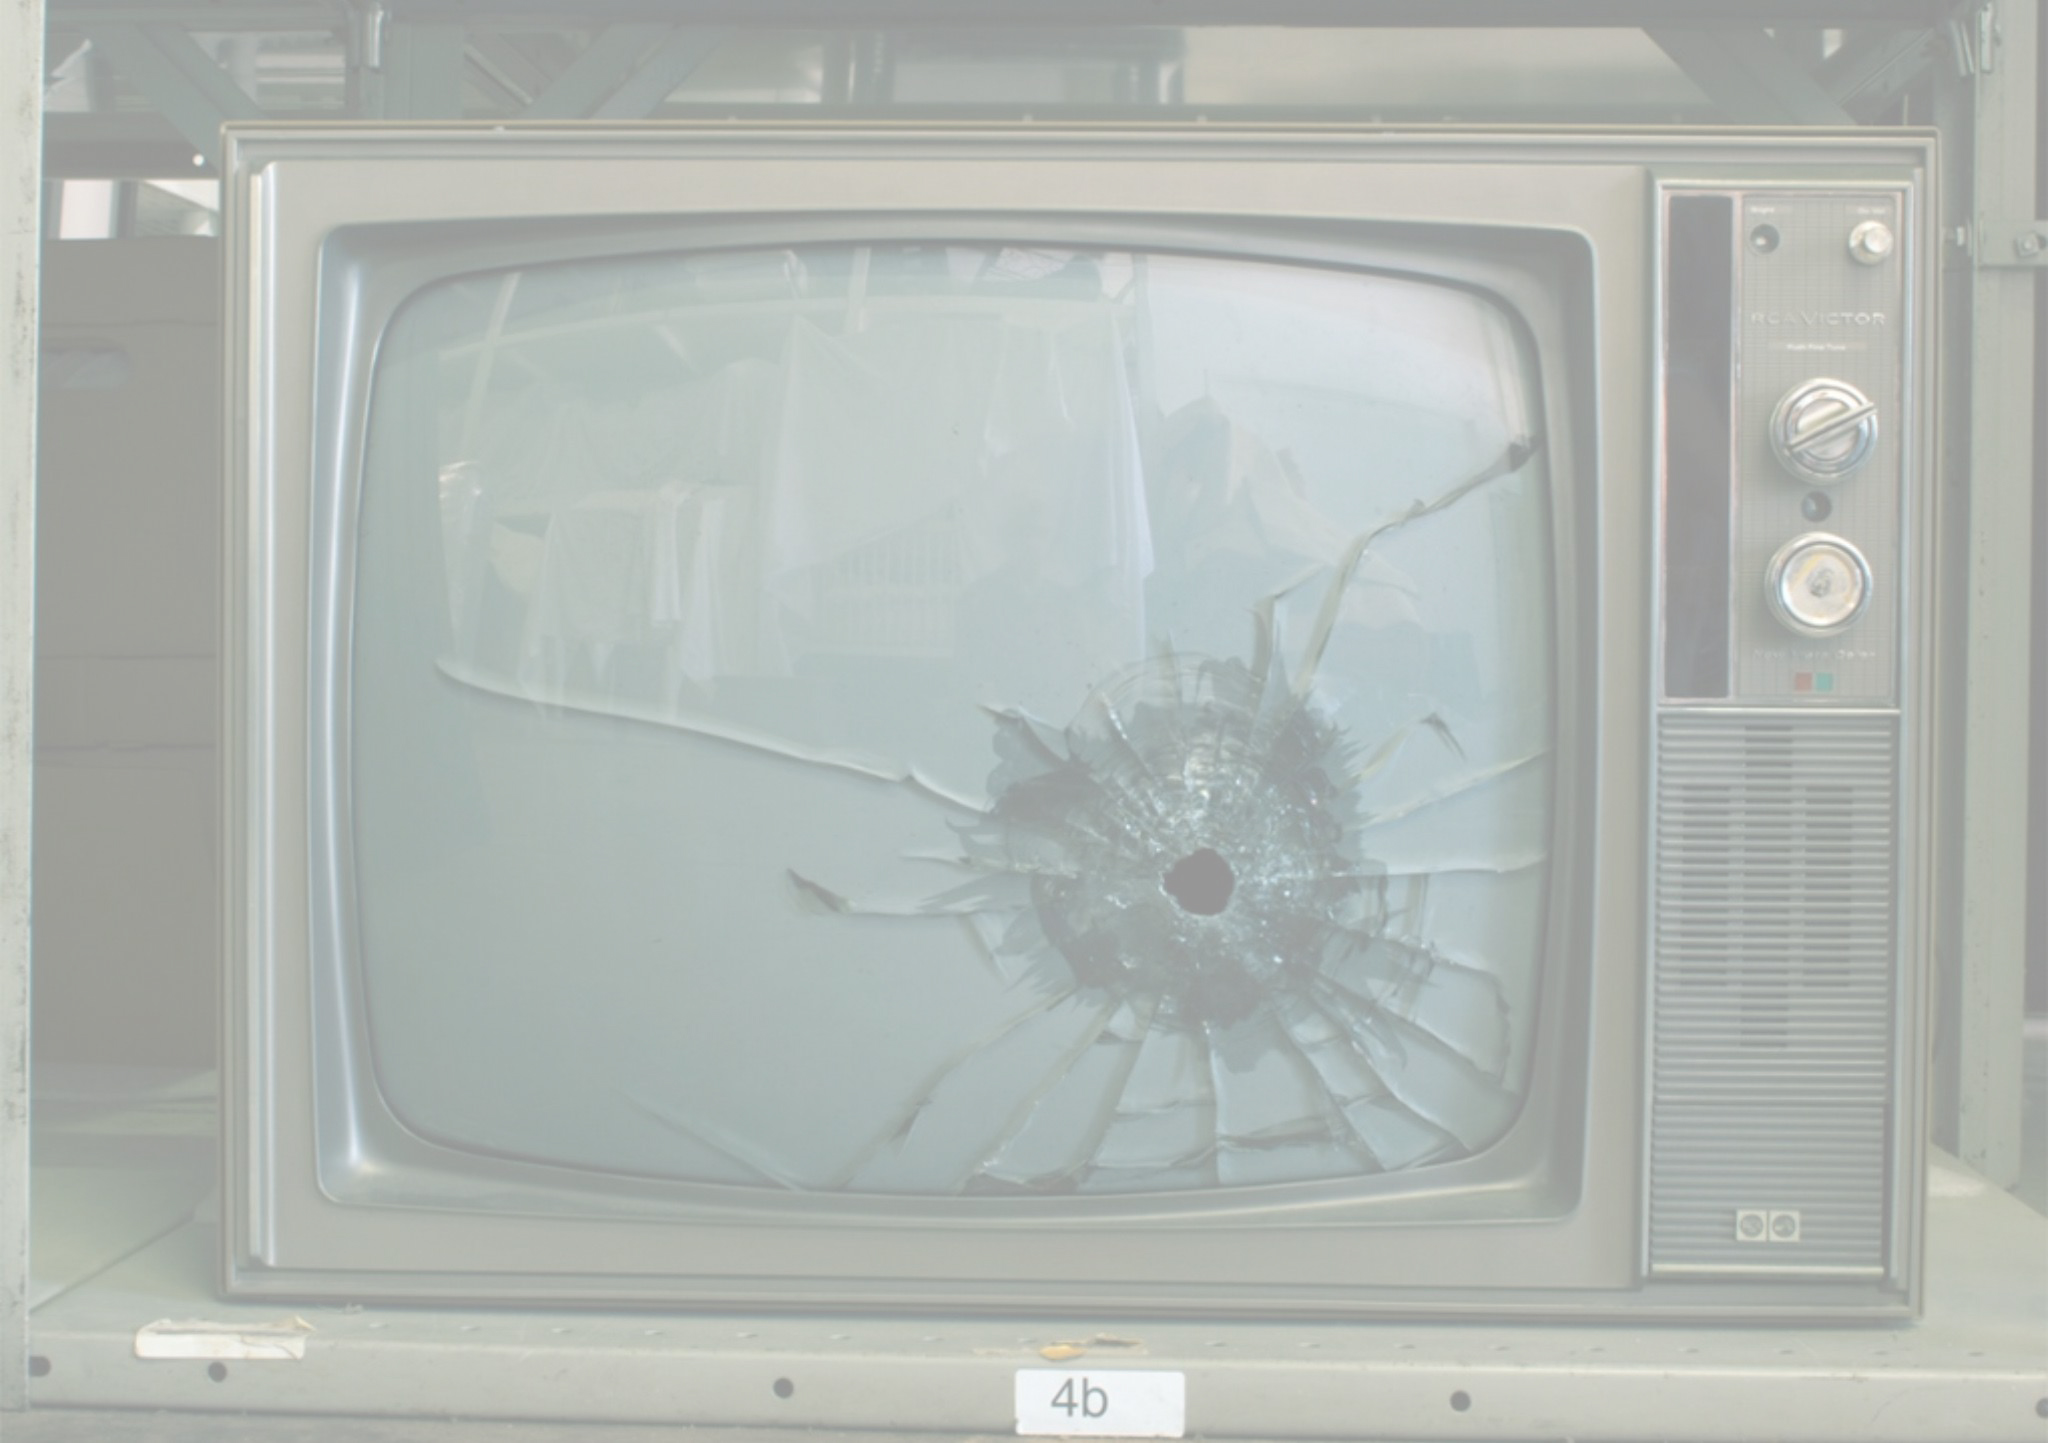
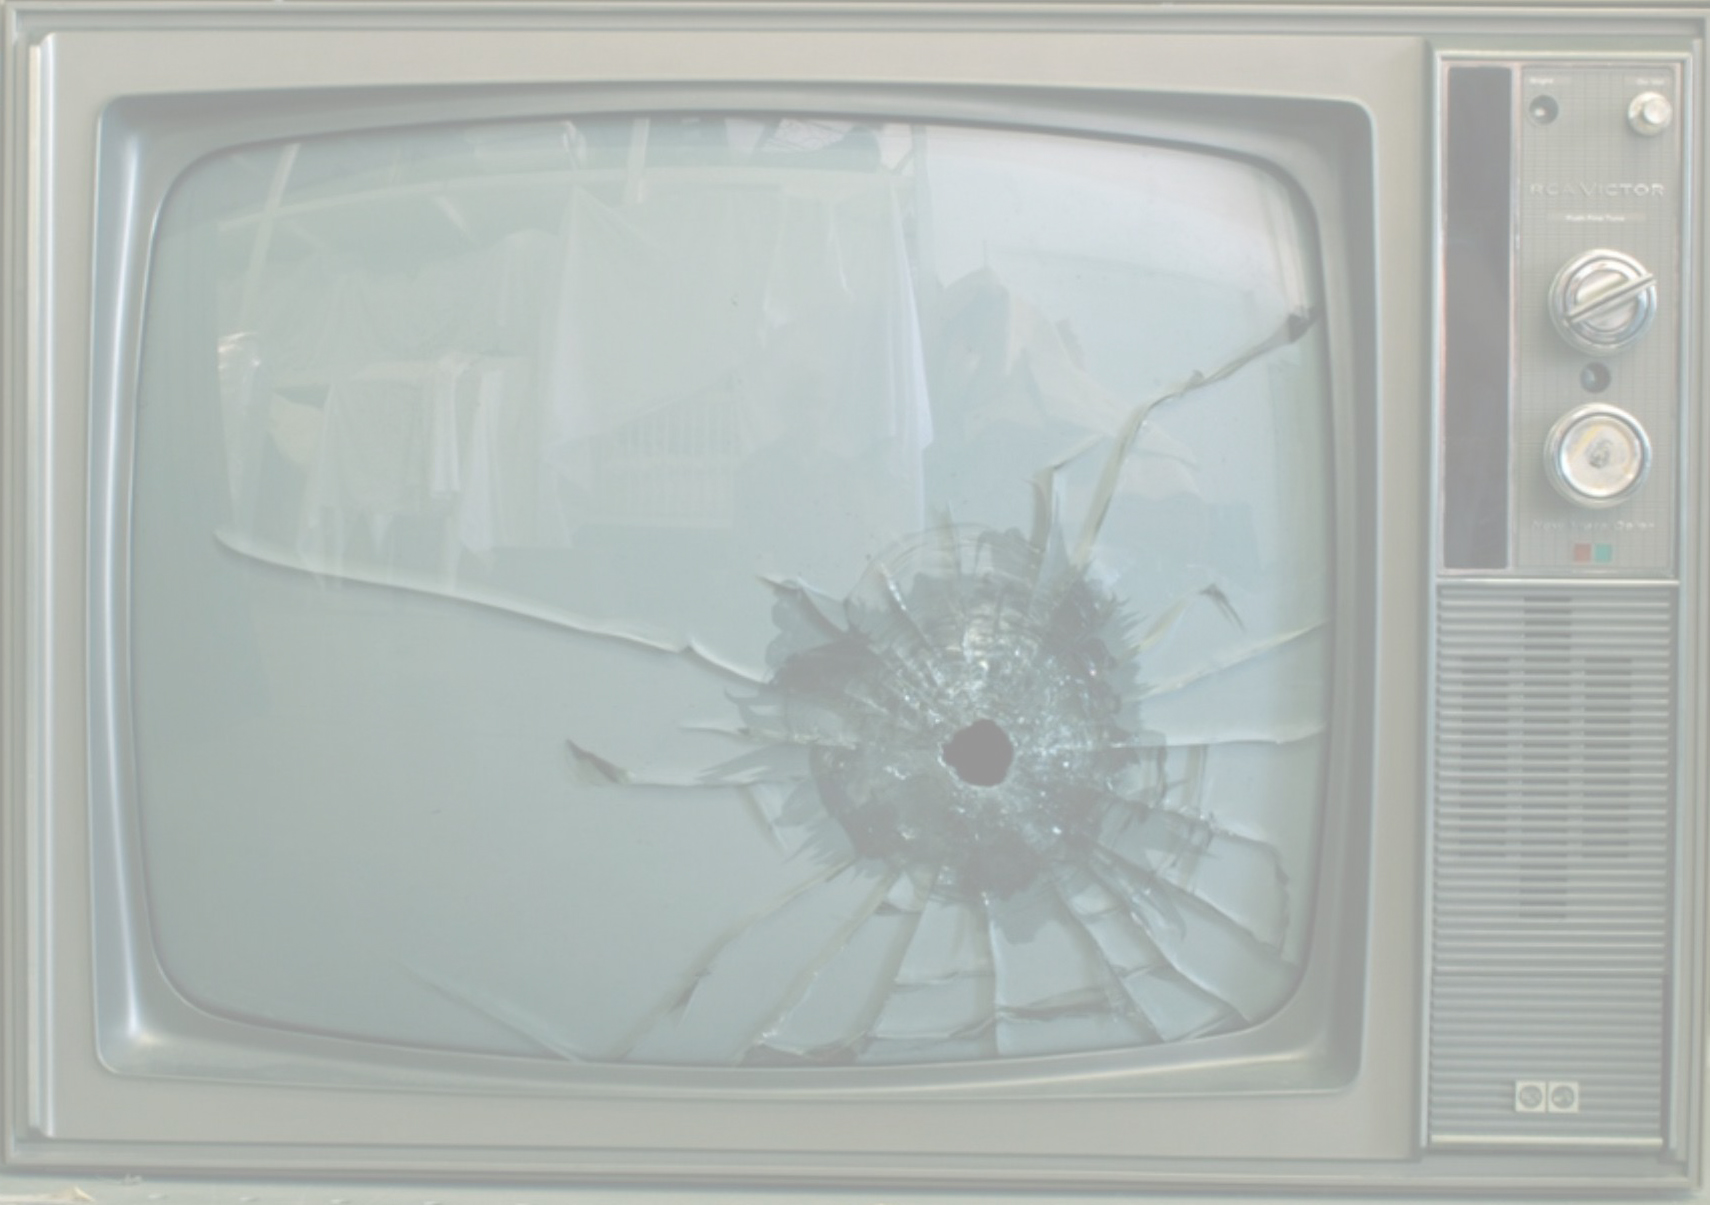
Add more styles

diff --git a/client/src/components/NotFound/notFound.css b/client/src/components/NotFound/notFound.css
@@ -23,6 +23,7 @@
   width: 80%;
   max-width: 1200px;
   height: 600px;
+  min-height: 300px;
   background-color: rgba(255, 255, 255, 0.8);
 
   border-radius: 20px;
@@ -34,13 +35,14 @@
 .not-found > h1 {
   font-size: 72px;
   color: var(--red);
+  margin: 0 30px;
 }
 
 .not-found > h2 {
   font-size: 36px;
   color: var(--bg-black);
   display: inline-block;
-  margin: 0 20px;
+  margin: 20px 20px;
 }
 
 .not-found > h3 {
@@ -58,11 +60,12 @@
 }
 
 .menu-item {
-  width: 150px;
+  width: 8em;
   margin-top: 20px;
   padding: 0.7em 1.4em;
   background-color: var(--green);
   border-radius: 20px;
+  font-size: 1.5em;
 }
 
 .menu-link {
@@ -89,5 +92,9 @@
     flex-direction: row;
     justify-content: space-evenly;
     margin-top: 2em;
+  }
+
+  .menu-item {
+    width: 8em;
   }
 }

diff --git a/client/src/App.css b/client/src/App.css
@@ -1,3 +1,8 @@
+@font-face {
+  font-family: Phenomena;
+  src: url("../../client/public/Phenomena-Regular.woff");
+}
+
 * {
   box-sizing: border-box;
   margin: 0;
@@ -5,7 +10,7 @@
 }
 
 body {
-  font-family: "Poppins", sans-serif;
+  font-family: "Phenomena", "Poppins", sans-serif;
   /* background: linear-gradient(rgba(12, 3, 51, 0.3), rgba(12, 3, 51, 0.3));
    */
    background: #fff;
